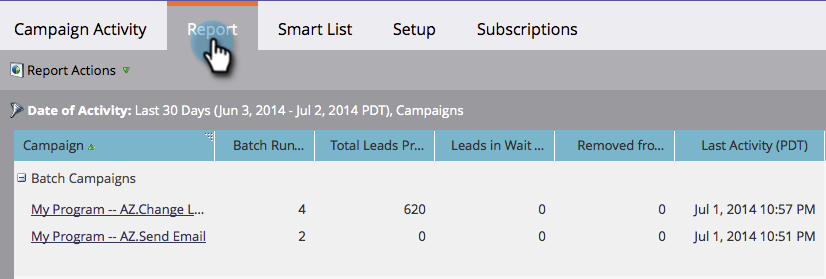
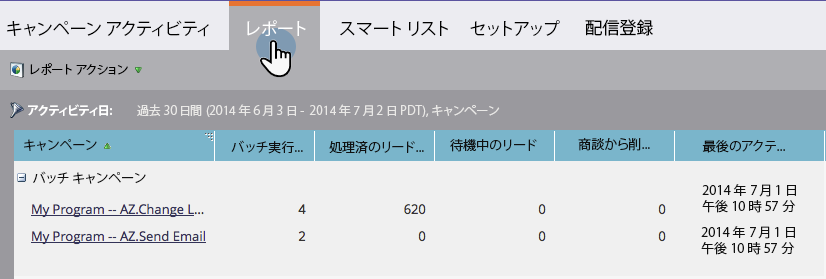
Updated by task 'AUTO_HANDOFF_1715680606556'  Changes for core/source commit https://git.corp.adobe.com/AdobeDocs/marketo.en/commit/d0430078eaec5686ebded1e59e0eb4560b35ab44

diff --git a/help/marketo/release-notes/current.md b/help/marketo/release-notes/current.md
@@ -4,15 +4,15 @@ title: 最新のリリースノート
 exl-id: a2eccad5-73ad-48f9-8091-51cee23824e1
 feature: Release Information
 source-git-commit: 94ca714d038863ad801551960c66086ea47e6b10
-workflow-type: tm+mt
+workflow-type: ht
 source-wordcount: '223'
-ht-degree: 49%
+ht-degree: 100%
 
 ---
 
 # リリースノート：2024年6月 {#release-notes-june-24}
 
-以下に、2024 年 6 月リリースに含まれるすべての機能を示します。 機能の可用性については、お使いの Adobe Marketo Engage のエディションをご確認ください。
+2024年6月リリースに含まれるすべての機能を以下に示します。機能の可用性については、お使いの Adobe Marketo Engage のエディションをご確認ください。
 
 Adobe Dynamic Chat 専用のリリースノートについて詳しくは、[こちらを参照](/help/marketo/release-notes/dynamic-chat.md){target="_blank"}してください。
 
@@ -22,7 +22,7 @@ Adobe Dynamic Chat 専用のリリースノートについて詳しくは、[こ
 
 ## 標準リリースサイクルの機能 {#standard-release-cycle-features}
 
-以下の機能は標準リリースサイクルに該当し、リリースは **2024年6月7日**（PT）から開始し、その次の週から残りの機能が段階的にロールアウトされます。リリースの機能と日付は変更される場合があります。各機能のステータスについては、各機能の隣で確認してください。
+以下の機能は標準リリースサイクルに該当し、リリースは **2024年6月7日**（PT）に開始し、その次の週から残りの機能が段階的にロールアウトされます。リリースの機能と日付は変更される場合があります。各機能のステータスについては、各機能の隣で確認してください。
 
 <table style="table-layout:auto"> 
  <tbody> 
@@ -32,7 +32,7 @@ Adobe Dynamic Chat 専用のリリースノートについて詳しくは、[こ
    <th style="width:25%">ドキュメント</th>
   </tr>
      <tr> 
-   <td><strong>Formsで推測されるフィールド</strong>：以前の web アクティビティがないフォーム入力でユーザーが作成された場合に、推論されるフィールドに入力するために使用されるデータソースが、他のユーザー収集メソッドと同じデータソースを使用するように更新されました。 推論フィールドデータが、すべてのコレクションポイントで一貫するようになりました。</td> 
+   <td><strong>フォームで推測されるフィールド</strong>：以前の web アクティビティがない状態でフォーム入力によってユーザを作成する場合に、推測されるフィールドにデータを入力するために、他のユーザコレクションメソッドと同じデータソースを使用するように更新されました。推測されるフィールドデータは、すべてのコレクションポイントにわたって一貫性を持つようになりました。</td> 
    <td><i>まもなくリリース</i></td>
    <td><i>まもなくリリース</i></td>
   </tr>
@@ -42,4 +42,4 @@ Adobe Dynamic Chat 専用のリリースノートについて詳しくは、[こ
 
 ## お知らせ {#announcements}
 
-* **LinkedInの再認証が必要です**:LinkedInは、Marketo Engage LinkedIn統合で使用されるマーケティング API をアップグレードしています。 linkedInこれらの変更を行うには、 **Admin** > **LaunchPoint** サービスが中断されないようにするには、2024 年 6 月 7 日（PT）から 12 月 15 日（PT）までのメニューを選択します。 これを実行する方法については、こちらを参照してください [リード生成Formsはこちら](/help/marketo/product-docs/demand-generation/social/social-functions/set-up-linkedin-lead-gen-forms.md){target="_blank"} and [here for Matched Audiences](/help/marketo/product-docs/demand-generation/ad-network-integrations/add-linkedin-matched-audiences-as-a-launchpoint-service.md){target="_blank"}. Lead Gen Form service has a type of "LinkedIn Lead Gen" and Matched Audience service has type of "LinkedIn Matched Audiences." For more information, please see the [Migration FAQ](https://nation.marketo.com/t5/employee-blogs/linkedin-re-authentication-required/ba-p/347794){target="_blank"}.
+* **LinkedIn の再認証が必要です**：LinkedIn では、Marketo Engage LinkedIn 統合で使用されるマーケティング API をアップグレードしています。この変更により、サービスの中断を避けるために、2024年6月7日（PT）から 12月15日（PT）までの間、**管理**／**LaunchPoint** メニューですべての LinkedIn LaunchPoint サービスの再認証が必要になります。これを実行する方法については、こちらから[リード生成フォーム](/help/marketo/product-docs/demand-generation/social/social-functions/set-up-linkedin-lead-gen-forms.md){target="_blank"} and [here for Matched Audiences](/help/marketo/product-docs/demand-generation/ad-network-integrations/add-linkedin-matched-audiences-as-a-launchpoint-service.md){target="_blank"}. Lead Gen Form service has a type of "LinkedIn Lead Gen" and Matched Audience service has type of "LinkedIn Matched Audiences." For more information, please see the [Migration FAQ](https://nation.marketo.com/t5/employee-blogs/linkedin-re-authentication-required/ba-p/347794){target="_blank"}を参照してください。

diff --git a/help/marketo/product-docs/reporting/basic-reporting/report-types/report-type-overview.md b/help/marketo/product-docs/reporting/basic-reporting/report-types/report-type-overview.md
@@ -5,9 +5,9 @@ title: レポートタイプの概要
 exl-id: 983e920d-bba7-4c61-8a0f-6611808dd5c5
 feature: Reporting
 source-git-commit: c7069488ccb0444179cd995bec523ac4dd92da73
-workflow-type: tm+mt
+workflow-type: ht
 source-wordcount: '235'
-ht-degree: 95%
+ht-degree: 100%
 
 ---
 
@@ -47,7 +47,7 @@ ht-degree: 95%
   </tr> 
   <tr> 
    <td><strong><a href="/help/marketo/product-docs/reporting/revenue-cycle-analytics/revenue-tools/people-by-revenue-stage-report.md">売上高ステージ別のリードレポート</a></strong></td> 
-   <td>収益モデルの基本レポート。 詳しくは、<a href="https://experienceleague.adobe.com/en/docs/marketo/using/product-docs/reporting/revenue-cycle-analytics/revenue-cycle-models/create-a-new-revenue-model">売上高サイクル分析</a>を参照してください。</td> 
+   <td>売上高モデルの基本レポート。詳しくは、<a href="https://experienceleague.adobe.com/ja/docs/marketo/using/product-docs/reporting/revenue-cycle-analytics/revenue-cycle-models/create-a-new-revenue-model">売上高サイクル分析</a>を参照してください。</td> 
   </tr> 
   <tr> 
    <td><strong><a href="/help/marketo/product-docs/demand-generation/landing-pages/understanding-landing-pages/landing-page-performance-report.md">ランディングページの効果</a>  </strong></td> 
@@ -55,7 +55,7 @@ ht-degree: 95%
   </tr> 
   <tr> 
    <td><strong><a href="/help/marketo/product-docs/core-marketo-concepts/programs/program-performance-report/create-a-program-performance-report.md">プログラム効果</a>  </strong></td> 
-   <td>メンバーや成功などの基本的なプログラム指標。詳しくは、<a href="https://experienceleague.adobe.com/en/docs/marketo/using/product-docs/reporting/revenue-cycle-analytics/revenue-cycle-models/create-a-new-revenue-model">売上高サイクル分析</a>を参照してください。</td> 
+   <td>メンバーや成功などの基本的なプログラム指標。詳しくは、<a href="https://experienceleague.adobe.com/ja/docs/marketo/using/product-docs/reporting/revenue-cycle-analytics/revenue-cycle-models/create-a-new-revenue-model">売上高サイクル分析</a>を参照してください。</td> 
   </tr> 
   <tr> 
    <td><strong><a href="company-web-activity-report.md">企業 Web アクティビティ</a></strong></td> 
@@ -71,11 +71,11 @@ ht-degree: 95%
   </tr> 
   <tr> 
    <td><strong><a href="/help/marketo/product-docs/email-marketing/drip-nurturing/reports-and-notifications/engagement-stream-performance-report.md">エンゲージメントストリームの効果レポート</a> </strong></td> 
-   <td><a href="https://experienceleague.adobe.com/en/docs/marketo/using/product-docs/email-marketing/drip-nurturing/creating-an-engagement-program/understanding-engagement-programs">エンゲージメントプログラム</a>の効率を確認します。</td> 
+   <td><a href="https://experienceleague.adobe.com/ja/docs/marketo/using/product-docs/email-marketing/drip-nurturing/creating-an-engagement-program/understanding-engagement-programs">エンゲージメントプログラム</a>の効率を確認します。</td> 
   </tr>
    <tr> 
-   <td><strong><a href="/help/marketo/product-docs/reporting/basic-reporting/report-types/campaign-email-performance-report.md">キャンペーンメール効果</a> </strong></td> 
-   <td><a href="https://experienceleague.adobe.com/en/docs/marketo/using/product-docs/email-marketing/drip-nurturing/creating-an-engagement-program/understanding-engagement-programs">エンゲージメントプログラム</a>の効率を確認します。</td> 
+   <td><strong><a href="/help/marketo/product-docs/reporting/basic-reporting/report-types/campaign-email-performance-report.md">キャンペーンメールのパフォーマンス</a> </strong></td> 
+   <td><a href="https://experienceleague.adobe.com/ja/docs/marketo/using/product-docs/email-marketing/drip-nurturing/creating-an-engagement-program/understanding-engagement-programs">エンゲージメントプログラム</a>の効率を確認します。</td> 
   </tr>
  </tbody> 
 </table>

diff --git a/help/marketo/product-docs/demand-generation/events/interactive-webinars/promoting-an-interactive-webinar.md b/help/marketo/product-docs/demand-generation/events/interactive-webinars/promoting-an-interactive-webinar.md
@@ -4,9 +4,9 @@ title: インタラクティブウェビナーのプロモーション
 feature: Interactive Webinars
 exl-id: d26f91ce-3a95-4247-9a52-085260bb15e8
 source-git-commit: 4d7732582dccb00c90bb61d2db1d7553027e92a9
-workflow-type: tm+mt
+workflow-type: ht
 source-wordcount: '601'
-ht-degree: 84%
+ht-degree: 100%
 
 ---
 
@@ -20,9 +20,9 @@ ht-degree: 84%
 
 >[!NOTE]
 >
->コホストまたはプレゼンターをオーディエンスメンバーとしてインタラクティブウェビナーイベントプログラムに追加する場合は、別のメール ID を使用する必要があります。そうしないと、「このメールは既に登録されています」というエラーが表示されます。
+>共同主催者またはプレゼンターをオーディエンスメンバーとしてインタラクティブウェビナーイベントプログラムに追加する場合は、別のメール ID を使用する必要があります。そうしないと、「このメールは既に登録されています」というエラーが表示されます。
 
-このメールには、プログラムの特定の詳細を含めることができます。また、ウェビナーに関する詳細情報（コンテンツ、発表者の情報など）が表示される特定のページに受信者をリダイレクトするランディングページ URL を含めることができます を追加できる特定のページに受信者をリダイレクトするランディングページ URL を含めることもできます。このランディングページは、インタラクティブウェビナーイベントプログラムのローカルアセットとして作成できます。
+このメールには、プログラムの具体的詳細を含めることができるほか、ウェビナーに関する詳細情報（コンテンツ、プレゼンターの情報など）を追加できる特定のページに受信者をリダイレクトするランディングページ URL を含めることもできます。このランディングページは、インタラクティブウェビナーイベントプログラムのローカルアセットとして作成できます。
 
 このウェビナーへの登録を促すには、ランディングページでフォームを有効にし、フォームのクリック数をインタラクティブウェビナーイベントプログラムの有効な登録にリンクします。次に、フォームの送信をトリガーとして使用し、プログラムのステータスを「招待済み」から「登録済み」に変更するキャンペーンを作成できます。
 

diff --git a/help/marketo/product-docs/demand-generation/ad-network-integrations/add-linkedin-matched-audiences-as-a-launchpoint-service.md b/help/marketo/product-docs/demand-generation/ad-network-integrations/add-linkedin-matched-audiences-as-a-launchpoint-service.md
@@ -5,9 +5,9 @@ title: LinkedIn と一致したオーディエンスを LaunchPoint サービス
 exl-id: 82096b19-aae9-4086-8fb4-defc5481d382
 feature: Integrations
 source-git-commit: 94ca714d038863ad801551960c66086ea47e6b10
-workflow-type: tm+mt
+workflow-type: ht
 source-wordcount: '224'
-ht-degree: 69%
+ht-degree: 100%
 
 ---
 
@@ -15,13 +15,13 @@ ht-degree: 69%
 
 >[!IMPORTANT]
 >
->LinkedInは、Marketo EngageのLinkedIn統合で使用されるマーケティング API をアップグレードしています。 linkedInこれらの変更を行うには、 **Admin** > **LaunchPoint** サービスが中断されないようにするには、2024 年 6 月 7 日（PT）から 12 月 15 日（PT）までのメニューを選択します。 詳しくは、 [移行に関する FAQ](https://nation.marketo.com/t5/employee-blogs/linkedin-re-authentication-required/ba-p/347794){target="_blank"}.
+>LinkedIn では、Marketo Engage LinkedIn 統合で使用されるマーケティング API をアップグレードしています。この変更により、サービスの中断を避けるために、2024年6月7日（PT）から 12月15日（PT）までの間、**管理**／**LaunchPoint** メニューですべての LinkedIn LaunchPoint サービスの再認証が必須になります。詳しくは、[移行に関する FAQ](https://nation.marketo.com/t5/employee-blogs/linkedin-re-authentication-required/ba-p/347794){target="_blank"} を参照してください。
 
 >[!NOTE]
 >
 >**管理者権限が必要**
 
-Marketo静的リストまたはスマートリストをLinkedIn オーディエンスセグメントとして使用するには、Marketo EngageアカウントをLinkedInでマッチしたオーディエンスに接続します。
+Marketo Engage アカウントを LinkedIn Matched Audiences に接続し、Marketo の静的リストまたはスマートリストを LinkedIn オーディエンスセグメントとして使用します。
 
 1. 「**[!UICONTROL 管理者]**」セクションに移動します。
 

diff --git a/help/marketo/product-docs/email-marketing/deliverability/durable-unsubscribe.md b/help/marketo/product-docs/email-marketing/deliverability/durable-unsubscribe.md
@@ -5,15 +5,15 @@ title: 永続的な登録解除
 exl-id: e03a5a01-7395-45b3-8351-7931ec413236
 feature: Deliverability
 source-git-commit: 35f5b33b01462b1cd00e29360daee465c7f18cf0
-workflow-type: tm+mt
+workflow-type: ht
 source-wordcount: '296'
-ht-degree: 95%
+ht-degree: 100%
 
 ---
 
 # 永続的な登録解除 {#durable-unsubscribe}
 
-Marketoでは、購読解除機能の動作を強化して、「永続化」しました。 マスターメールステータスが追加され、これはリード詳細レコードで確認できる登録解除フラグとは別に機能します。
+Marketo で登録解除が「永続的」になるように、機能が強化されました。マスターメールステータスが追加され、これはリード詳細レコードで確認できる登録解除フラグとは別に機能します。
 
 登録解除フラグを false から true に変更すると、マスターメールステータスが更新され、その変更は同じメールアドレスを持つ他のリードにも反映されます。リードが削除されて再作成されるとき、または新規レコードが同じメールアドレスで作成されるとき、登録解除フラグは&#x200B;**上書きされません**。
 

diff --git a/help/marketo/product-docs/administration/users-and-roles/managing-marketo-users.md b/help/marketo/product-docs/administration/users-and-roles/managing-marketo-users.md
@@ -5,9 +5,9 @@ title: Marketo ユーザーの管理
 exl-id: 40506d3c-a7cb-45fb-bc10-021bd0c70806
 feature: Users and Roles
 source-git-commit: ee6944a02a4535f9d763453fa16c95623eed6378
-workflow-type: tm+mt
+workflow-type: ht
 source-wordcount: '393'
-ht-degree: 96%
+ht-degree: 100%
 
 ---
 
@@ -15,7 +15,7 @@ ht-degree: 96%
 
 >[!IMPORTANT]
 >
->この記事は、次のことを行うユーザーのみを対象としています _ではない_ use [Adobe ID を使用したMarketo](/help/marketo/product-docs/administration/marketo-with-adobe-identity/adobe-identity-management-overview.md){target="_blank"}. If you do, please follow the steps in [this article](/help/marketo/product-docs/administration/marketo-with-adobe-identity/add-or-remove-a-user.md){target="_blank"} その代わり。
+>この記事は、[Adobe ID で Marketo](/help/marketo/product-docs/administration/marketo-with-adobe-identity/adobe-identity-management-overview.md){target="_blank"}. If you do, please follow the steps in [this article](/help/marketo/product-docs/administration/marketo-with-adobe-identity/add-or-remove-a-user.md){target="_blank"} を使用し&#x200B;_ない_&#x200B;ユーザのみを対象としています。
 
 ## ユーザーを作成する {#create-users}
 

diff --git a/help/marketo/product-docs/reporting/basic-reporting/report-types/campaign-activity-report.md b/help/marketo/product-docs/reporting/basic-reporting/report-types/campaign-activity-report.md
@@ -5,15 +5,15 @@ title: キャンペーンアクティビティレポート
 exl-id: 13904129-c7e2-4bfa-b545-c85656d4262e
 feature: Reporting
 source-git-commit: c7069488ccb0444179cd995bec523ac4dd92da73
-workflow-type: tm+mt
+workflow-type: ht
 source-wordcount: '218'
-ht-degree: 96%
+ht-degree: 100%
 
 ---
 
 # キャンペーンアクティビティレポート {#campaign-activity-report}
 
-方法を見る [スマートキャンペーン](/help/marketo/product-docs/core-marketo-concepts/smart-campaigns/creating-a-smart-campaign/understanding-batch-and-trigger-smart-campaigns.md) を実行中です。
+[スマートキャンペーン](/help/marketo/product-docs/core-marketo-concepts/smart-campaigns/creating-a-smart-campaign/understanding-batch-and-trigger-smart-campaigns.md)のパフォーマンスを確認します。
 
 1. [レポートを作成](/help/marketo/product-docs/reporting/basic-reporting/creating-reports/create-a-report-in-a-program.md)し、**キャンペーンアクティビティ**[レポートタイプ](/help/marketo/product-docs/reporting/basic-reporting/report-types/report-type-overview.md)を選択します。
 
